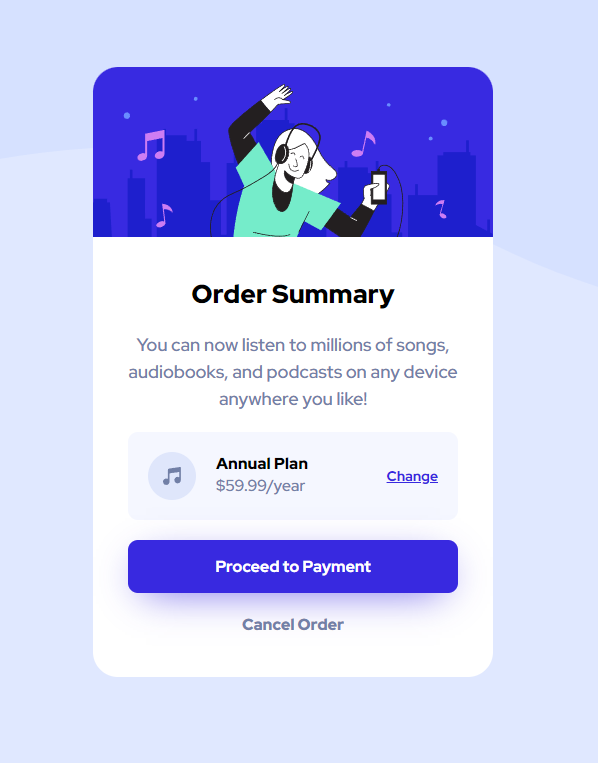
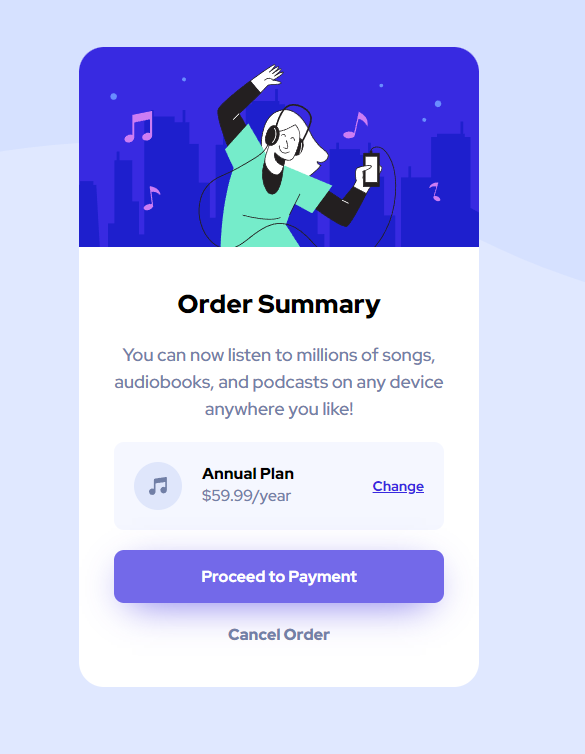
readme update

diff --git a/style.css b/style.css
@@ -161,4 +161,8 @@ span {
     .flex-column {
         padding: 4rem 3.5rem;
     }
+
+    .card-img {
+        height: 200px;
+    }
 }

diff --git a/README.md b/README.md
@@ -28,8 +28,8 @@ Users should be able to:
 
 ### Links
 
-- Solution URL: [solution URL](https://www.frontendmentor.io/solutions/flexbox-boxshadow-pseudo-without-exact-measure-data-gPCabxyp8p)
-- Live Site URL: [live site URL](https://pr3t0r.github.io/nft-preview-card-component-main/)
+- Solution URL: [solution URL](https://www.frontendmentor.io/solutions/flexbox-vanilla-css-pupZSfKUZn)
+- Live Site URL: [live site URL](https://github.com/Pr3t0r/order-summary-component-main)
 
 ## My process
 
